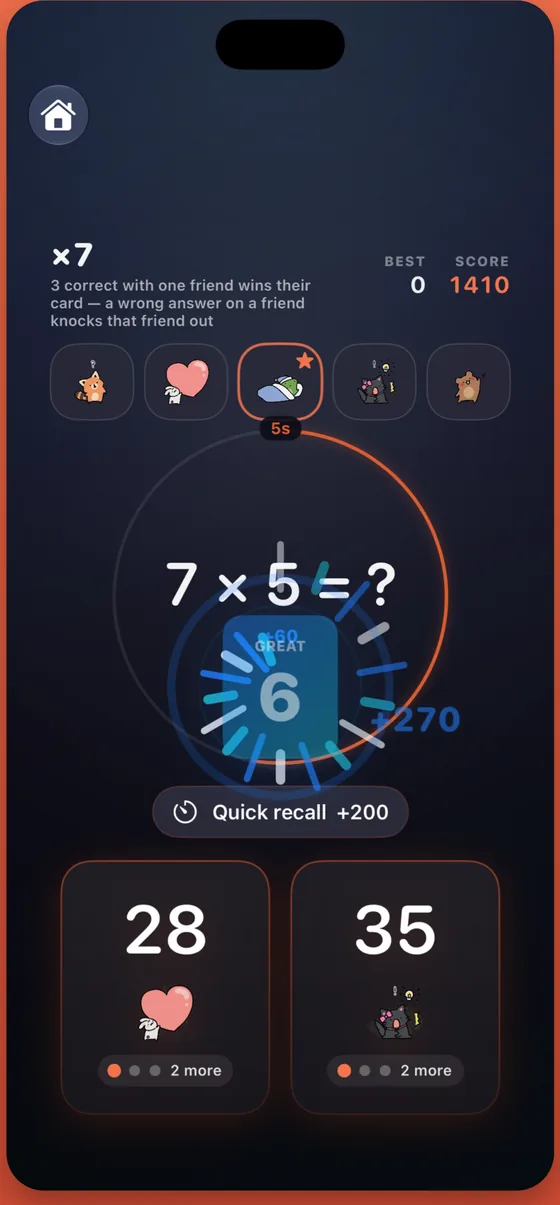
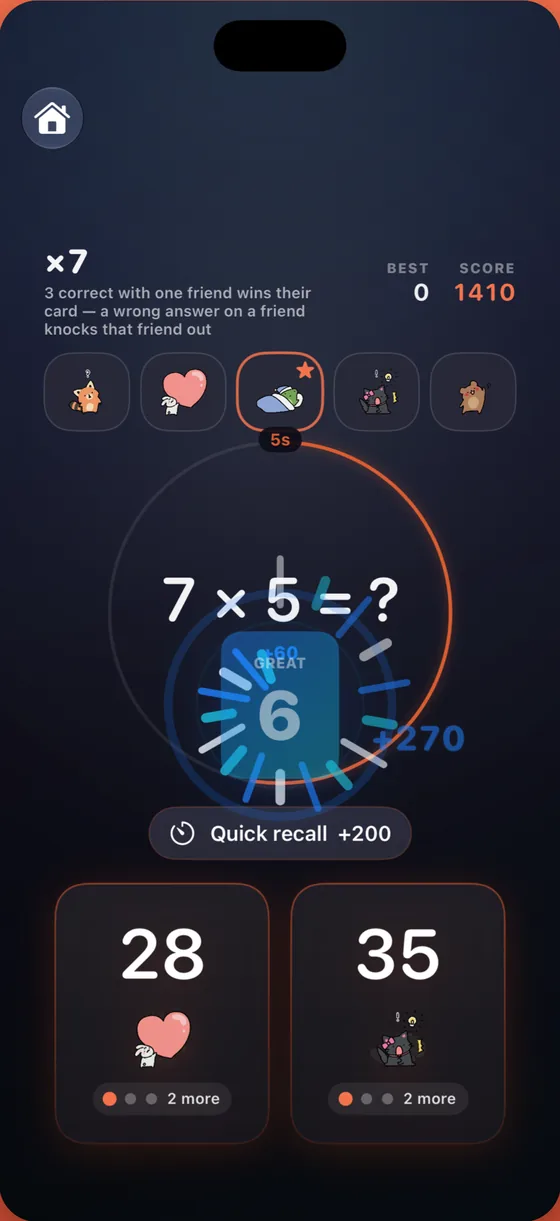
Mu page: DEFEND joins PLAY now that 2.4 is live
PLAY switches between RACE and DEFEND (they take turns until a tap
picks one; play_game event on tap). 2.4 is live on iOS (founder
2026-11-12), so the page also lists Apple Watch. Phone crops now sit
inside the screen edge, so the store's orange backdrop no longer shows
around RACE, DEFEND and HUNT.

diff --git a/index.html b/index.html
@@ -4,7 +4,7 @@
   <meta charset="utf-8">
   <meta name="viewport" content="width=device-width, initial-scale=1">
   <title>Multiplication &amp; Times Tables · Swiftian</title>
-  <meta name="description" content="Learn a times table with a friend who reads it aloud, race on it, then hunt for cards. Five friends, 160 cards. iPhone, iPad, Mac.">
+  <meta name="description" content="Learn a times table with a friend who reads it aloud, race or defend with it, then hunt for cards. Five friends, 160 cards. iPhone, iPad, Mac, Apple Watch.">
   <meta name="theme-color" content="#0d0c16">
   <link rel="icon" type="image/png" sizes="16x16" href="/favicon-16.png?v=20261103">
   <link rel="icon" type="image/png" sizes="32x32" href="/favicon-32.png?v=20261103">
@@ -67,12 +67,20 @@
     /* LEARN · PLAY · HUNT */
     .modes{display:grid;grid-template-columns:repeat(3,minmax(0,1fr));gap:28px;margin:64px 0 0}
     .mode{margin:0;text-align:center}
-    .mode .shot{display:block;width:100%;max-width:280px;margin:0 auto;aspect-ratio:987/2124;border-radius:34px;overflow:hidden;
+    .mode .shot{display:block;width:100%;max-width:280px;margin:0 auto;aspect-ratio:962/2097;border-radius:34px;overflow:hidden;
       background:#1d1b2c;box-shadow:0 0 0 1px rgba(255,255,255,.12),0 24px 60px -24px rgba(0,0,0,.8)}
     .mode .shot img{display:block;width:100%;height:100%;object-fit:cover;object-position:top}
     .mode h2{margin:18px 0 2px;font:800 30px/1 var(--display);letter-spacing:.04em}
     .mode p{margin:0 auto;max-width:28ch;color:var(--muted);font-size:15px;line-height:1.45}
     .arrow{color:var(--accent)}
+    .shot.duo{position:relative}
+    .shot.duo img{position:absolute;inset:0;opacity:0;transition:opacity .45s ease}
+    .shot.duo img.on{opacity:1}
+    .games{display:inline-flex;gap:4px;margin:10px 0 10px;padding:3px;border-radius:999px;background:rgba(255,255,255,.07)}
+    .games button{border:0;border-radius:999px;padding:6px 13px;background:none;color:var(--muted);font:800 13px/1 var(--display);letter-spacing:.06em;cursor:pointer}
+    .games button[aria-selected="true"]{background:var(--accent);color:#1a1020}
+    .games button:focus-visible{outline:2px solid var(--accent);outline-offset:2px}
+    @media (prefers-reduced-motion: reduce){.shot.duo img{transition:none}}
 
     /* five friends, 160 cards */
     .friends{margin:84px 0 0;text-align:center}
@@ -128,7 +136,7 @@
     }
     @media (prefers-reduced-motion:reduce){.faces span{animation:none}.cin{transition:none}}
   </style>
-<script type="application/ld+json">{"@context": "https://schema.org", "@graph": [{"@type": "WebSite", "@id": "https://swiftian.com/#site", "name": "Swiftian", "url": "https://swiftian.com/", "publisher": {"@id": "https://swiftian.com/#org"}}, {"@type": "Organization", "@id": "https://swiftian.com/#org", "name": "Swiftian Inc.", "alternateName": "Swiftian", "url": "https://swiftian.com/", "logo": "https://swiftian.com/apple-touch-icon.png", "sameAs": ["https://apps.apple.com/us/developer/swiftian-inc/id1803794298", "https://pythoneer.io/", "https://spriteer.com/", "https://iflipbook.com/", "https://coordigo.com/", "https://seoulmal.com/"]}, {"@type": "SoftwareApplication", "name": "Multiplication & Times Tables", "url": "https://apps.apple.com/app/id6752542327", "operatingSystem": "iOS, iPadOS, macOS", "applicationCategory": "EducationalApplication", "author": {"@id": "https://swiftian.com/#org"}}]}</script>
+<script type="application/ld+json">{"@context": "https://schema.org", "@graph": [{"@type": "WebSite", "@id": "https://swiftian.com/#site", "name": "Swiftian", "url": "https://swiftian.com/", "publisher": {"@id": "https://swiftian.com/#org"}}, {"@type": "Organization", "@id": "https://swiftian.com/#org", "name": "Swiftian Inc.", "alternateName": "Swiftian", "url": "https://swiftian.com/", "logo": "https://swiftian.com/apple-touch-icon.png", "sameAs": ["https://apps.apple.com/us/developer/swiftian-inc/id1803794298", "https://pythoneer.io/", "https://spriteer.com/", "https://iflipbook.com/", "https://coordigo.com/", "https://seoulmal.com/"]}, {"@type": "SoftwareApplication", "name": "Multiplication & Times Tables", "url": "https://apps.apple.com/app/id6752542327", "operatingSystem": "iOS, iPadOS, macOS, watchOS", "applicationCategory": "EducationalApplication", "author": {"@id": "https://swiftian.com/#org"}}]}</script>
 <link rel="stylesheet" href="/assets/app-menu.css?v=6">
 </head>
 <body>
@@ -150,17 +158,24 @@
 
     <section class="modes" aria-label="Modes">
       <figure class="mode">
-        <span class="shot"><img src="/assets/mu/learn.webp" width="560" height="1159" loading="lazy" alt="LEARN: seven times three is twenty-one, read aloud line by line"></span>
+        <span class="shot"><img src="/assets/mu/learn.webp" width="560" height="1189" loading="lazy" alt="LEARN: seven times three is twenty-one, read aloud line by line"></span>
         <h2>LEARN</h2>
         <p>Your friend reads each line aloud. Hear it, cover it, say it.</p>
       </figure>
-      <figure class="mode">
-        <span class="shot"><img src="/assets/mu/race.webp" width="560" height="1205" loading="lazy" alt="PLAY: a kart race where steering left or right picks the answer to 7 × 6"></span>
+      <figure class="mode" id="playMode">
+        <span class="shot duo">
+          <img class="on" data-g="race" src="/assets/mu/race.webp" width="560" height="1221" loading="lazy" alt="RACE: a kart race where steering left or right picks the answer to 7 × 6">
+          <img data-g="defend" src="/assets/mu/defend.webp" width="560" height="1221" loading="lazy" alt="DEFEND: crows charge down a bridge while a gate asks 6 × 7">
+        </span>
         <h2>PLAY</h2>
-        <p>Race four friends. Steer left or right to answer.</p>
+        <div class="games" role="tablist" aria-label="PLAY games">
+          <button type="button" role="tab" data-g="race" aria-selected="true">RACE</button><button type="button" role="tab" data-g="defend" aria-selected="false">DEFEND</button>
+        </div>
+        <p data-g="race">Race four friends. Steer left or right to answer.</p>
+        <p data-g="defend" hidden>Hold the bridge against the crows. Every solved gate grows your team.</p>
       </figure>
       <figure class="mode">
-        <span class="shot"><img src="/assets/mu/hunt.webp" width="560" height="1205" loading="lazy" alt="HUNT: a 30-second round asking 7 × 5"></span>
+        <span class="shot"><img src="/assets/mu/hunt.webp" width="560" height="1221" loading="lazy" alt="HUNT: a 30-second round asking 7 × 5"></span>
         <h2>HUNT</h2>
         <p>Thirty-second rounds. Win a round, win a card.</p>
       </figure>
@@ -191,7 +206,7 @@
 
     <div class="store-row">
       <a class="store" href="https://apps.apple.com/app/id6752542327?ct=web-sw-cf"><img src="/assets/tabs/cf-32.png" srcset="/assets/tabs/cf-32.png 1x, /assets/tabs/cf-64.png 2x, /assets/tabs/cf-96.png 3x" width="32" height="32" alt=""><span><small>Download on the</small><b>App Store</b></span></a>
-      <p class="free">×2 free · one Unlock All for ×3–×12 · iPhone, iPad, Mac</p>
+      <p class="free">×2 free · one Unlock All for ×3–×12 · iPhone, iPad, Mac, Apple Watch</p>
     </div>
   </div>
 
@@ -238,6 +253,21 @@
       (f.requestFullscreen || f.webkitRequestFullscreen || function () {}).call(f);
       try { f.contentWindow.focus(); } catch (_) {}
     });
+  })();
+  // PLAY: RACE and DEFEND take turns until a tap picks one (no turns with reduced motion)
+  (function () {
+    var fig = document.getElementById("playMode"); if (!fig) return;
+    var order = ["race", "defend"], at = 0, timer = 0;
+    function show(g) {
+      fig.querySelectorAll("img[data-g]").forEach(function (i) { i.classList.toggle("on", i.dataset.g === g); });
+      fig.querySelectorAll("p[data-g]").forEach(function (p) { p.hidden = p.dataset.g !== g; });
+      fig.querySelectorAll(".games button").forEach(function (b) { b.setAttribute("aria-selected", String(b.dataset.g === g)); });
+      at = order.indexOf(g);
+    }
+    fig.querySelectorAll(".games button").forEach(function (b) {
+      b.addEventListener("click", function () { clearInterval(timer); show(b.dataset.g); SW_EV("play_game", { game: b.dataset.g }); });
+    });
+    if (!matchMedia("(prefers-reduced-motion: reduce)").matches) timer = setInterval(function () { show(order[(at + 1) % order.length]); }, 3800);
   })();
   // cards: a tap turns the card over to the same friend's next rarity (common → rare → epic → legend)
   (function () {

diff --git a/race/index.html b/race/index.html
@@ -181,7 +181,7 @@ a.ghost:focus-visible{outline:3px solid var(--gold);outline-offset:2px}
 
 </style>
 
-<script type="application/ld+json">{"@context": "https://schema.org", "@graph": [{"@type": "WebSite", "@id": "https://swiftian.com/#site", "name": "Swiftian", "url": "https://swiftian.com/", "publisher": {"@id": "https://swiftian.com/#org"}}, {"@type": "Organization", "@id": "https://swiftian.com/#org", "name": "Swiftian Inc.", "alternateName": "Swiftian", "url": "https://swiftian.com/", "logo": "https://swiftian.com/apple-touch-icon.png", "sameAs": ["https://apps.apple.com/us/developer/swiftian-inc/id1803794298", "https://pythoneer.io/", "https://spriteer.com/", "https://iflipbook.com/", "https://coordigo.com/", "https://seoulmal.com/"]}, {"@type": "SoftwareApplication", "name": "Multiplication & Times Tables", "url": "https://apps.apple.com/app/id6752542327", "operatingSystem": "iOS, iPadOS, macOS", "applicationCategory": "EducationalApplication", "author": {"@id": "https://swiftian.com/#org"}}]}</script>
+<script type="application/ld+json">{"@context": "https://schema.org", "@graph": [{"@type": "WebSite", "@id": "https://swiftian.com/#site", "name": "Swiftian", "url": "https://swiftian.com/", "publisher": {"@id": "https://swiftian.com/#org"}}, {"@type": "Organization", "@id": "https://swiftian.com/#org", "name": "Swiftian Inc.", "alternateName": "Swiftian", "url": "https://swiftian.com/", "logo": "https://swiftian.com/apple-touch-icon.png", "sameAs": ["https://apps.apple.com/us/developer/swiftian-inc/id1803794298", "https://pythoneer.io/", "https://spriteer.com/", "https://iflipbook.com/", "https://coordigo.com/", "https://seoulmal.com/"]}, {"@type": "SoftwareApplication", "name": "Multiplication & Times Tables", "url": "https://apps.apple.com/app/id6752542327", "operatingSystem": "iOS, iPadOS, macOS, watchOS", "applicationCategory": "EducationalApplication", "author": {"@id": "https://swiftian.com/#org"}}]}</script>
 </head>
 <body>
 <div id="app">

diff --git a/tools/mu_assets.py b/tools/mu_assets.py
@@ -5,7 +5,6 @@
 - assets/cards/<friend>_<nn>.webp : card art, the app's 720 px stickers at 360 px
 
 Usage: python3 tools/mu_assets.py [path to MultiplicationTimesTables]
-DEFEND (2.4) is added to SHOTS once 2.4 is live in App Store Connect.
 """
 import os, sys
 from PIL import Image
@@ -15,11 +14,12 @@ SITE = os.path.dirname(os.path.dirname(os.path.abspath(__file__)))
 STORE = os.path.join(APP, "fastlane/screenshots/en-US/iphone")
 ART = os.path.join(APP, "MultiplicationTimesTables/ComicAssets/Characters/720px")
 
-# store image -> (screen box). The phone sits lower under a two-line caption (learn).
+# store image -> (screen box): inside the screen edge (x 120..1085, bottom 2551), so no orange backdrop shows. The phone sits lower under a two-line caption (learn).
 SHOTS = {
-    "learn": ("4_iphone_learn.png", (109, 580, 1096, 2622)),
-    "race":  ("1_iphone_race.png",  (109, 453, 1096, 2577)),
-    "hunt":  ("5_iphone_hunt.png",  (109, 453, 1096, 2577)),
+    "learn": ("4_iphone_learn.png", (122, 580, 1084, 2622)),
+    "race":  ("1_iphone_race.png",  (122, 453, 1084, 2550)),
+    "defend": ("2_iphone_defend.png", (122, 453, 1084, 2550)),
+    "hunt":  ("5_iphone_hunt.png",  (122, 453, 1084, 2550)),
 }
 # one card per rarity for each friend: common, rare (25-29), epic (30-31), legend (32)
 CARDS = {"bear": [6, 25, 30, 32], "bunny": [7, 25, 30, 32], "cat": [5, 25, 30, 32],
